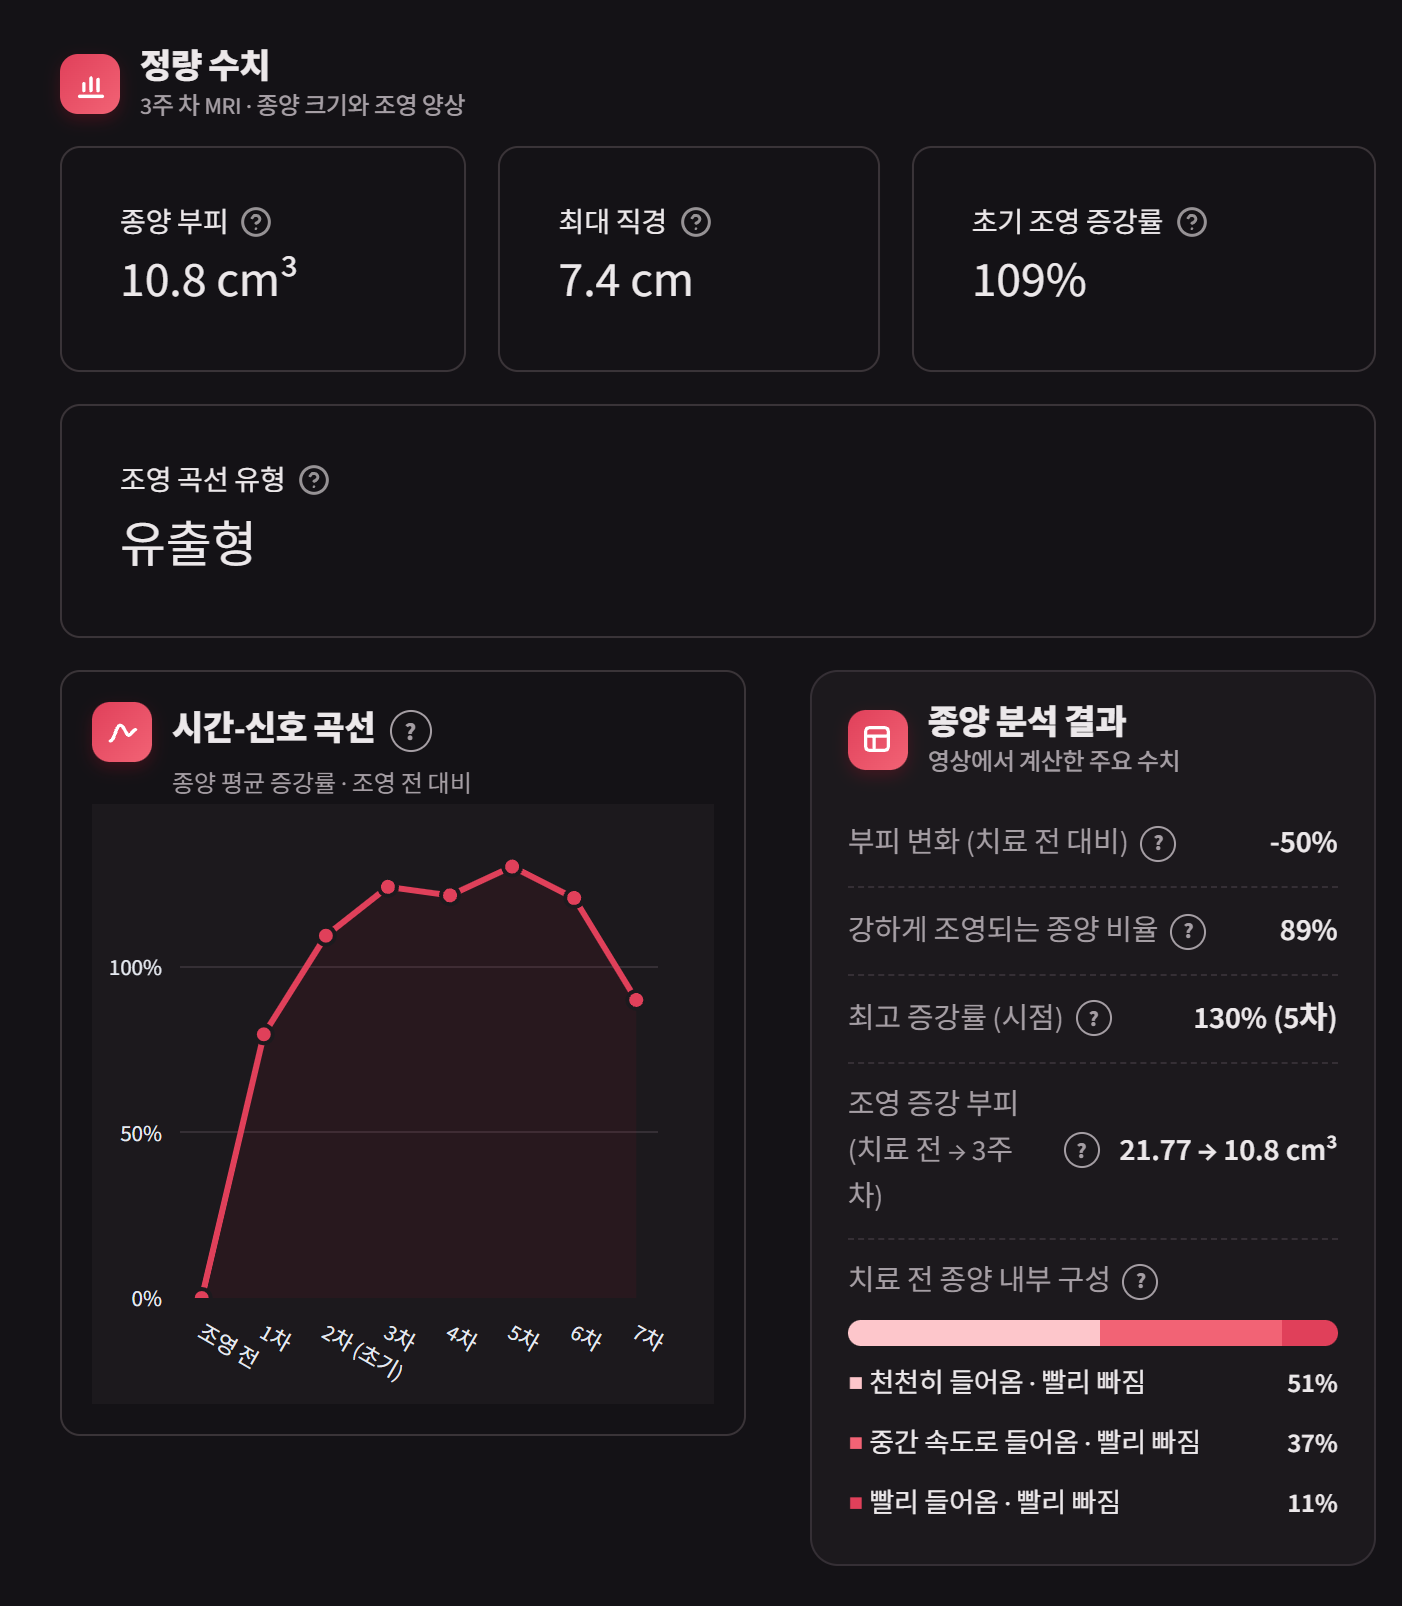
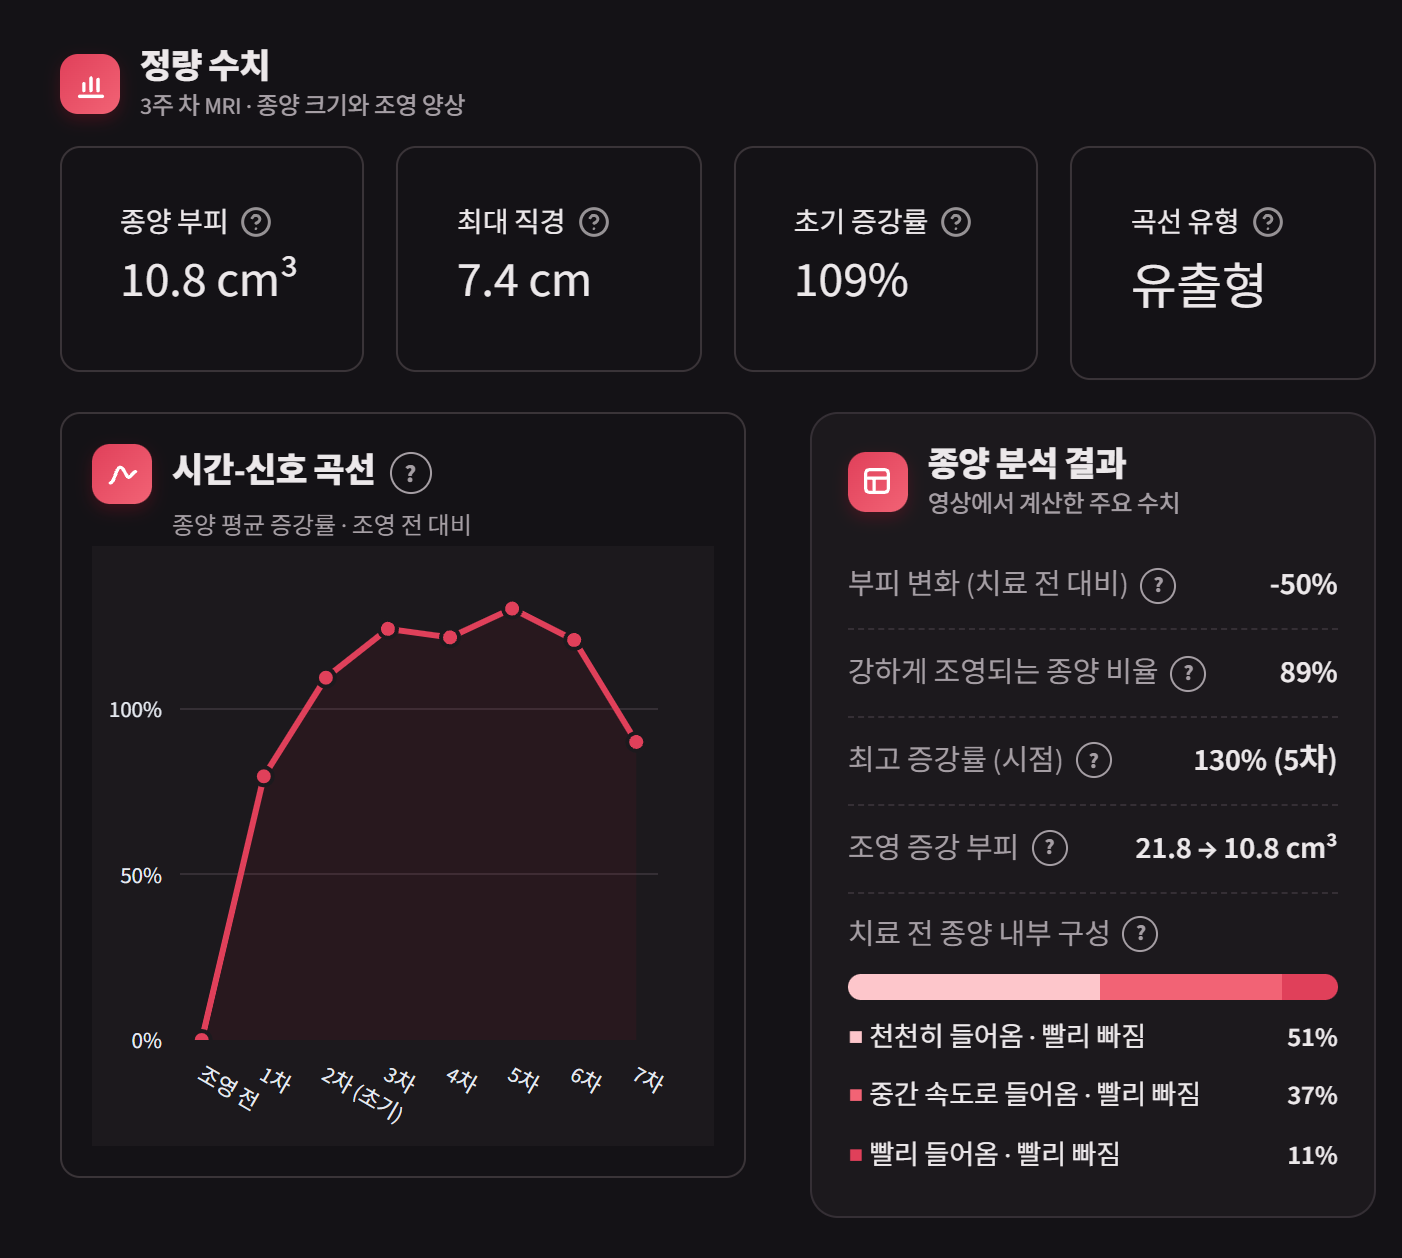
웹앱 정량 수치 한 줄 배치·부피 표기 정리, README에 결과 읽는 법 추가

diff --git a/Code/10) Web/20) Web_App, Screen Layout.py b/Code/10) Web/20) Web_App, Screen Layout.py
@@ -1397,13 +1397,13 @@ def numbers(res, which, keys, names, ph, when):
     f = res["features"]
     st.markdown('<div style="height:10px"></div>' + sec_title("chart", "정량 수치", f"{when} MRI · 종양 크기와 조영 양상"),
                 unsafe_allow_html=True)
-    m = st.container(horizontal=True)
-    m.metric("종양 부피", f"{S['vol_cm3']:.1f} cm³", border=True, help="종양 영역(Analysis Mask) 부피")
-    m.metric("최대 직경", f"{S['feret_mm'] / 10:.1f} cm", border=True, help="가장 큰 병변의 최대 길이")
+    mc = st.columns(4 if "early_pct" in S else 2, gap="small")   # 한 줄 고정 (칸이 다음 줄로 넘어가지 않게)
+    mc[0].metric("종양 부피", f"{S['vol_cm3']:.1f} cm³", border=True, help="종양 영역(Analysis Mask) 부피")
+    mc[1].metric("최대 직경", f"{S['feret_mm'] / 10:.1f} cm", border=True, help="가장 큰 병변의 최대 길이")
     if "early_pct" in S:
-        m.metric("초기 조영 증강률", f"{S['early_pct']:.0f}%", border=True,
-                 help="조영 초기 영상에서 종양 평균 신호가 조영 전보다 늘어난 비율")
-        m.metric("조영 곡선 유형", S["curve_type"], border=True,
+        mc[2].metric("초기 증강률", f"{S['early_pct']:.0f}%", border=True,
+                     help="조영 초기 영상에서 종양 평균 신호가 조영 전보다 늘어난 비율")
+        mc[3].metric("곡선 유형", S["curve_type"], border=True,
                  help=f"초기 이후 마지막 시점까지 변화 {S['late_change']:+.0f}% "
                       "(−10% 아래 = 유출형, +10% 위 = 지속 상승형, 사이 = 평탄형)")
     g1, g2 = st.columns([1.2, 1], gap="medium")
@@ -1438,7 +1438,7 @@ def numbers(res, which, keys, names, ph, when):
             rows.append(("평균 SER", f"{S['ser_mean']:.2f}", "ser"))
         if mode == "t3" and res.get("ftv_cm3"):
             a, b = res["ftv_cm3"]
-            rows.append(("조영 증강 부피 (치료 전 → 3주 차)", f"{a} → {b} cm³", "ftv"))
+            rows.append(("조영 증강 부피", f"{float(a):.1f} → {float(b):.1f} cm³", "ftv"))
         html = "".join(f'<div class="bpr-kv3"><span class="k">{k}{tip(t)}</span><b>{v}</b></div>' for k, v, t in rows)
         fr = [f.get(f"hab3_{j}_frac", np.nan) for j in range(3)]
         if not np.isnan(fr).any():

diff --git a/README.md b/README.md
@@ -36,7 +36,7 @@ from pre-treatment DCE-MRI, and testing whether imaging adds value beyond clinic
 <a href="#data">데이터셋</a> ·
 <a href="#results">결과</a> ·
 <a href="#code">코드 구성</a> ·
-<a href="#web">웹앱</a> ·
+<a href="#web">웹앱 · 결과 읽는 법</a> ·
 <a href="#method">방법론 · 일정</a> ·
 <a href="#team">팀 소개</a>
 </p>
@@ -229,6 +229,70 @@ Results/                      모델별 결과 CSV · 그림
 - 분석 속도: 치료 전 약 3초, 3주 차 약 2–5초 (분석 결과를 저장해 다시 씀)
 - 화면 모드: 기본 · 다크 모드
 - 환자 단위 자료(분석 결과, 업로드 영상)와 계정 정보는 저장소에 포함하지 않습니다.
+
+### 결과 화면 읽는 법
+
+> 화면은 **① 분석 결과 → ② 판단 근거 → ③ 정량 수치** 순서로 보면 됩니다.
+> ①에서 *얼마나 가능성이 있는지*, ②에서 *왜 그렇게 나왔는지*, ③에서 *영상에서 실제로 무엇이 보이는지*를 확인합니다.
+
+#### ① 분석 결과 — pCR 도달 확률
+
+| 화면 표시 | 의미 | 읽는 법 |
+|:---|:---|:---|
+| **원형 게이지 숫자** | 항암치료 후 종양이 완전히 사라질(pCR) 확률. 로지스틱 회귀 앙상블과 CNN의 확률 평균 | 빨간 부분이 길수록 pCR 가능성이 높음 |
+| **하얀 눈금** | 같은 아형 환자 982명의 실제 pCR 비율 (HER2+ 45.9% · TNBC 39.3% · HR+/HER2− 16.8%) | 빨간 부분이 눈금을 넘으면 같은 아형 평균보다 높음 |
+| **평균보다 높음 · 낮음 · 비슷함** | 예측 확률과 같은 아형 평균의 차이 | 차이가 5%p 넘으면 높음/낮음, 5%p 이내면 비슷함 |
+| **치료 전 예측 → 3주 차 반영** | 3주 차 MRI를 더했을 때 확률이 어떻게 바뀌었는지 | 올라가면 치료 초기 반응이 좋다는 신호 |
+| **실제 결과** | I-SPY2 환자의 수술 후 병리 결과 (검증용) | 새로 등록한 환자는 수술 전이므로 표시되지 않음 |
+
+**확률은 이렇게 받아들이면 됩니다** — 내부 검증 환자에서 예측 확률 구간별로 실제 pCR에 도달한 비율입니다.
+
+| 예측 확률 | 치료 전 MRI (198명) | 치료 전 + 3주 차 MRI (197명) |
+|:---:|:---:|:---:|
+| 20% 미만 | **2%** (52명 중 1명) | **7%** (68명 중 5명) |
+| 20 – 40% | 39% (85명 중 33명) | 27% (55명 중 15명) |
+| 40 – 60% | 44% (46명 중 20명) | 57% (51명 중 29명) |
+| 60% 이상 | **67%** (15명 중 10명) | **65%** (23명 중 15명) |
+| 전체 | 32% | 32% |
+
+- 확률이 높을수록 실제 pCR 비율도 높아집니다. 특히 **20% 미만이면 pCR이 매우 드뭅니다.**
+- 3주 차 MRI를 더하면 40% 이상 구간의 실제 pCR 비율이 올라가 구분이 더 뚜렷해집니다 (AUC 0.757 → 0.816).
+
+#### ② 판단 근거 — 왜 이런 확률이 나왔나
+
+| 화면 표시 | 의미 |
+|:---|:---|
+| **항목 이름** | 예측에 쓰인 특징을 묶은 그룹 (호르몬 수용체, HER2, 나이, 종양 부피 변화, 종양 내부 구성, 조영 변화 등) |
+| **높임 · 낮춤** | 평균적인 환자와 비교해 이 환자의 값이 pCR 확률을 올렸는지 내렸는지 |
+| **막대 길이** | 영향의 크기. 이 환자에서 가장 큰 요인을 기준(100%)으로 한 상대 크기 |
+
+- 로지스틱 회귀 모델의 *계수 × 표준화한 값*을 그룹별로 더한 값이라, 모델이 실제로 계산한 기여도를 그대로 보여 줍니다 (CNN 부분은 제외).
+- 예측이 어떤 근거로 나왔는지 보여 주는 것이지, 원인과 결과를 뜻하지는 않습니다.
+
+#### ③ 정량 수치 — 영상에서 계산한 값
+
+| 수치 | 뜻 | 읽는 법 |
+|:---|:---|:---|
+| **종양 부피 · 최대 직경** | 종양 영역의 부피(cm³)와 가장 긴 길이(cm) | 치료 전후 크기 비교의 기준 |
+| **부피 변화 (치료 전 대비)** | 3주 차 조영 증강 종양 부피(FTV)가 치료 전보다 줄어든 비율 | **크게 줄수록 pCR 가능성이 높은 경향** |
+| **초기 증강률** | 조영 초기 영상에서 종양 신호가 조영 전보다 늘어난 비율 | 높을수록 혈류가 많은 종양 |
+| **곡선 유형 · 시간-신호 곡선** | 조영제 주입 후 시점별 종양 평균 신호 변화 | **유출형**(올랐다 내려감, 악성에 흔함) · **평탄형** · **지속 상승형**(계속 오름) |
+| **최고 증강률 (시점)** | 시간-신호 곡선에서 가장 높은 값과 그 시점 | 빨리 정점에 이를수록 조영제가 빨리 들어오는 종양 |
+| **유출 영역 비율** | 종양 안에서 SER > 1.1인 화소 비율 | 조영제가 빨리 빠지는 부분이 얼마나 넓은지 |
+| **평균 SER** | (초기 − 조영 전) ÷ (후기 − 조영 전)의 평균 | 1보다 크면 빨리 들어왔다 빠짐, 작으면 계속 차오름 |
+| **강하게 조영되는 종양 비율** | 초기 신호가 70% 넘게 늘어난 화소 비율 (FTV 기준) | 높을수록 종양 전체가 고르게 강하게 조영됨 |
+| **치료 전 종양 내부 구성** | 조영제가 들어오고 빠지는 속도로 나눈 3가지 영역(habitat)의 비율 | 같은 종양 안의 이질성 — 비율이 한쪽으로 치우쳤는지 확인 |
+
+#### 예시 — 위 화면의 환자
+
+| 단계 | 화면에서 본 것 | 해석 |
+|:---:|:---|:---|
+| ① | TNBC, 치료 전 **50% → 3주 차 76%**, 같은 아형 평균 39.3%보다 높음 | 치료를 시작한 뒤 pCR 가능성이 크게 올라감 |
+| ② | 호르몬 수용체 음성 · 치료 전 대비 조영 변화 · 나이가 **높임** | 아형과 3주 차 영상 변화가 확률을 끌어올림 |
+| ③ | 조영 증강 부피 **21.8 → 10.8 cm³ (−50%)** | 3주 만에 종양 부피가 절반으로 줄어 초기 반응이 좋음 |
+| 실제 | 수술 결과 **pCR** | 예측과 일치 |
+
+> **참고** — 이 확률은 I-SPY2 내부 검증(198명)으로 성능을 확인한 연구용 예측입니다. 진단을 대신하지 않으며, 다른 기관 데이터에서의 검증은 아직 진행 전입니다.
 
 <br/>
 
